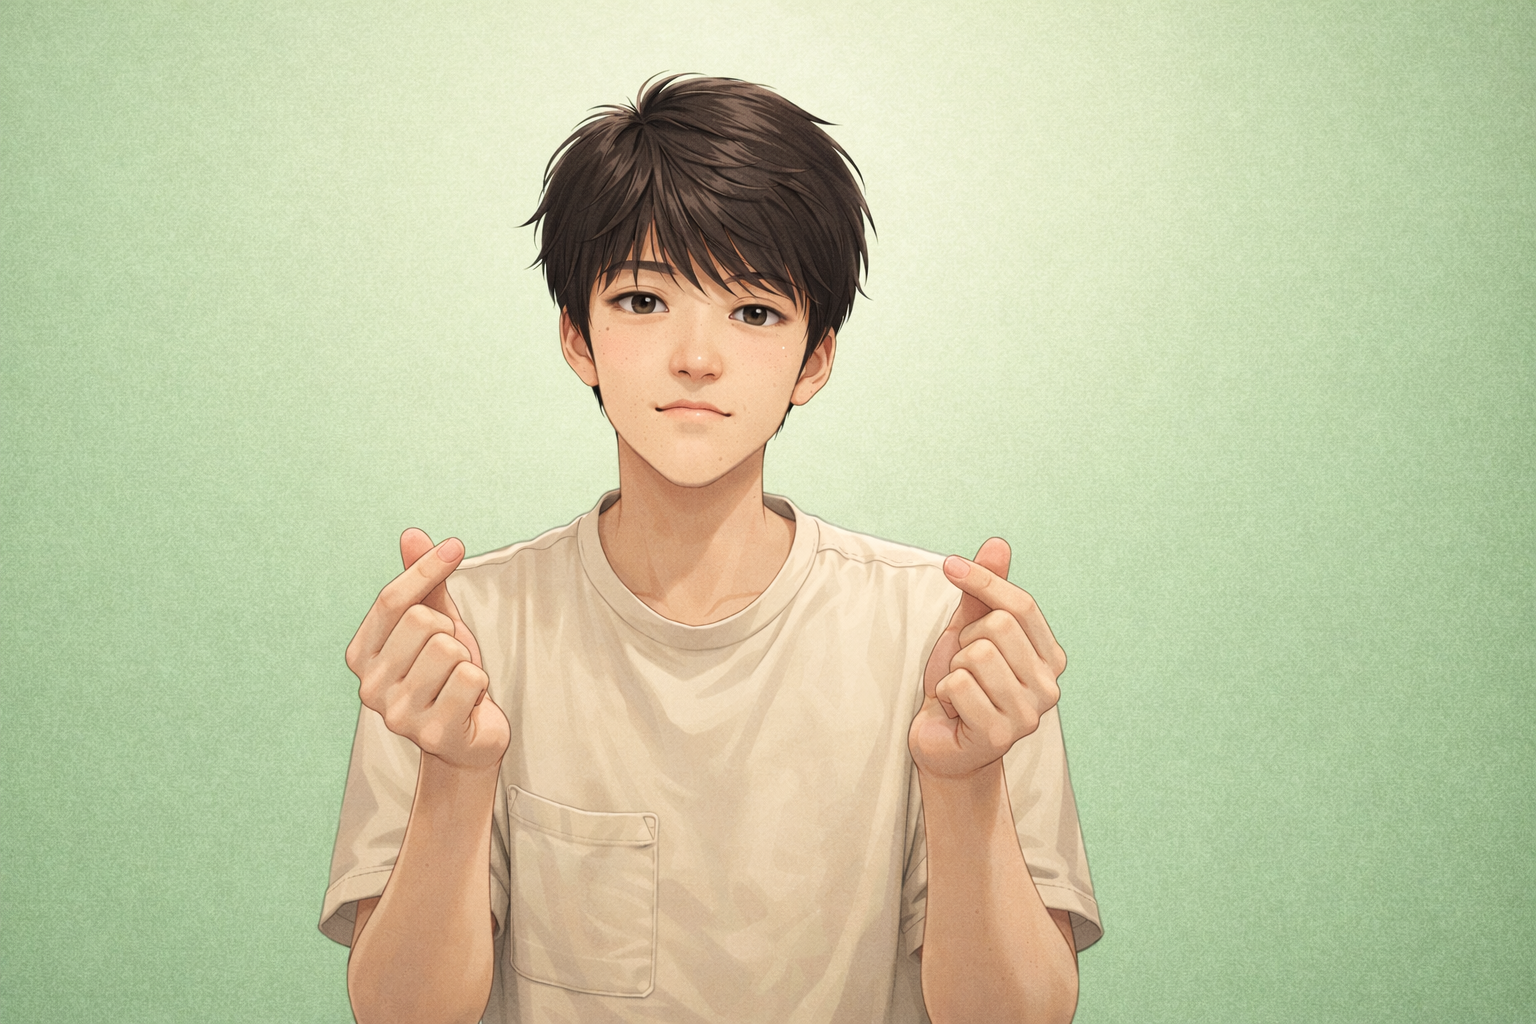
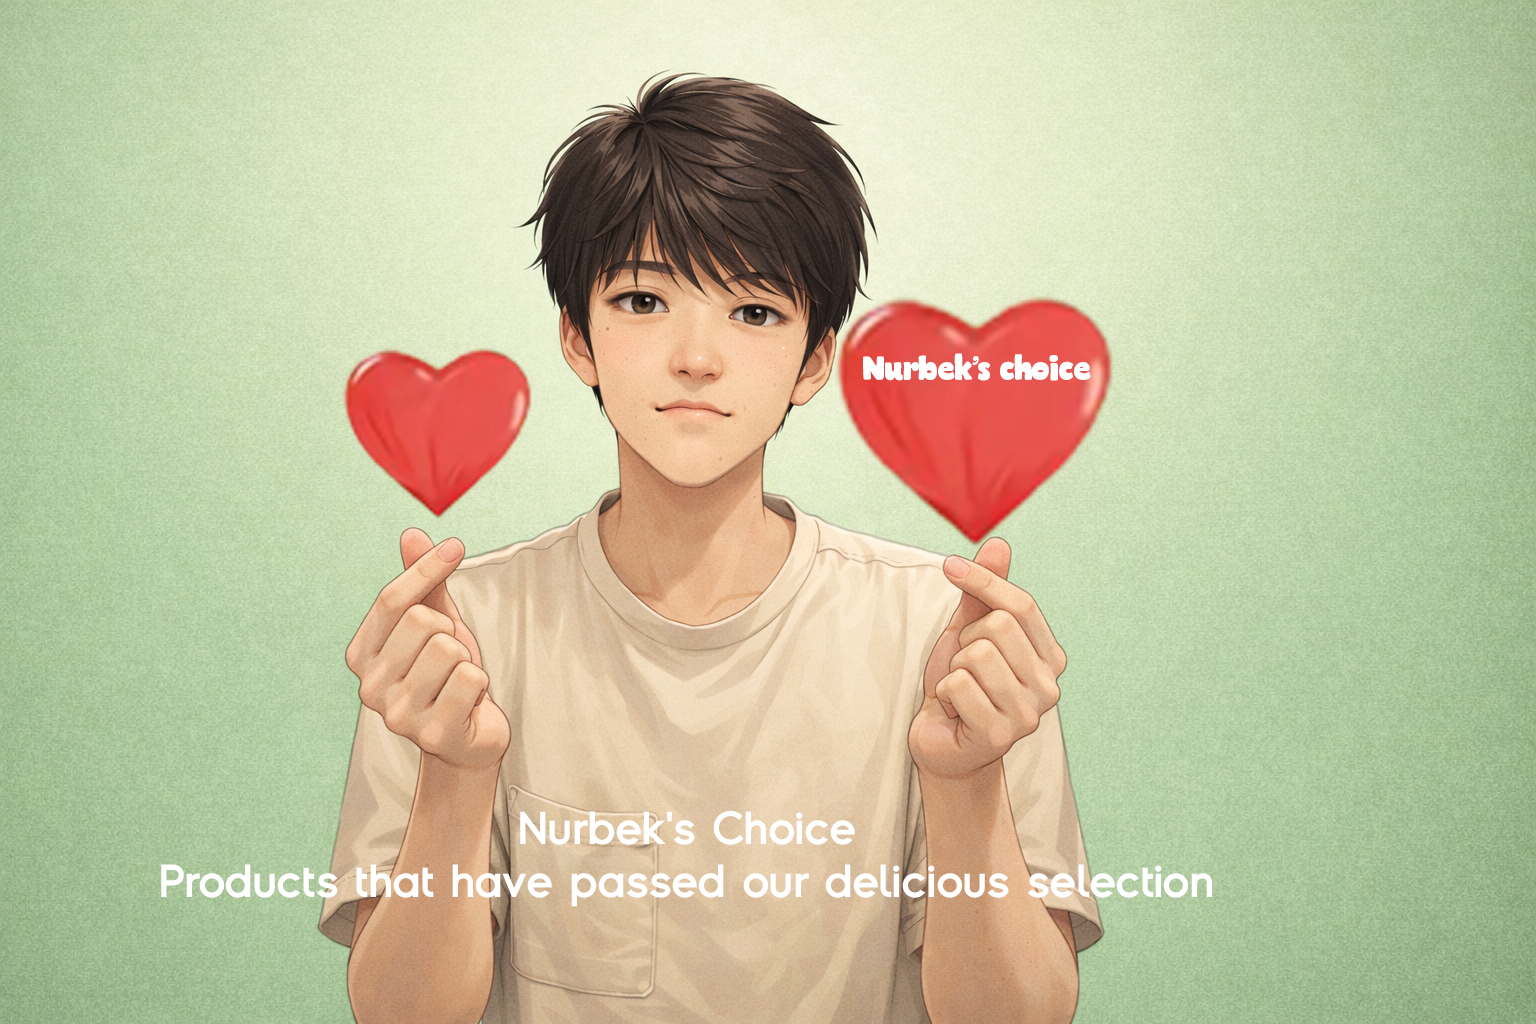
Ау мау

Changed region(s): [[0.5312, 0.2812, 0.75, 0.5312], [0.0938, 0.7812, 0.8125, 0.875], [0.2188, 0.3438, 0.3438, 0.5]]

diff --git a/index.html b/index.html
@@ -54,7 +54,7 @@
                 </div>
             </div>
             <div class="banner-footer">
-                <p class="banner-footer-text">✨ Добавьте праздник в корзину - новогодние скидки ждут!</p>
+                <p class="banner-footer-text">Добавьте праздник в корзину - новогодние скидки ждут!</p>
             </div>
         </section>
 

diff --git a/TEAM_DIVISION.md b/TEAM_DIVISION.md
@@ -1,0 +1,160 @@
+# Разделение проекта на команду из 4 человек
+
+## 👤 Участник 1: Авторизация и профиль пользователя
+
+### Ответственность:
+- Система входа и регистрации
+- Управление профилем пользователя
+- История заказов
+
+### Файлы:
+- `login.html` - страница входа
+- `register.html` - страница регистрации
+- `auth.js` - логика авторизации и регистрации
+- `profile.html` - страница профиля
+- `profile.js` - логика профиля и истории заказов
+
+### Функционал:
+- ✅ Форма входа (email, пароль)
+- ✅ Форма регистрации (имя, email, пароль, телефон)
+- ✅ Валидация данных
+- ✅ Сохранение пользователя в localStorage
+- ✅ Отображение профиля пользователя
+- ✅ История заказов в профиле
+- ✅ Выход из аккаунта
+
+---
+
+## 👤 Участник 2: Корзина и оформление заказа
+
+### Ответственность:
+- Корзина покупок
+- Оформление заказа
+- Страница успешного заказа
+
+### Файлы:
+- `cart.html` - страница корзины
+- `cart.js` - логика корзины (добавление, удаление, изменение количества)
+- `checkout.html` - страница оформления заказа
+- `checkout.js` - логика оформления заказа
+- `order-success.html` - страница успешного заказа
+
+### Функционал:
+- ✅ Добавление товаров в корзину
+- ✅ Отображение товаров в корзине
+- ✅ Изменение количества товаров
+- ✅ Удаление товаров из корзины
+- ✅ Подсчет общей суммы
+- ✅ Форма оформления заказа (адрес доставки, оплата)
+- ✅ Сохранение заказа в localStorage
+- ✅ Страница подтверждения заказа
+
+---
+
+## 👤 Участник 3: Главная страница и каталог товаров
+
+### Ответственность:
+- Главная страница
+- Каталог товаров
+- Категории товаров
+- Поиск товаров
+
+### Файлы:
+- `index.html` - главная страница
+- `script.js` - основная логика (каталог, категории, товары)
+- `search.js` - функционал поиска
+
+### Функционал:
+- ✅ Баннер с переключением изображений
+- ✅ Сетка категорий товаров
+- ✅ Каталог товаров с фильтрацией по категориям
+- ✅ Отображение карточек товаров
+- ✅ Поиск товаров по названию
+- ✅ Навигация между категориями
+- ✅ Категория "Выбор Нурбека"
+- ✅ Популярные товары
+- ✅ Товары со скидкой
+
+---
+
+## 👤 Участник 4: Дизайн и анимации
+
+### Ответственность:
+- Стилизация всего проекта
+- Анимации и интерактивность
+- Адаптивный дизайн
+- jQuery эффекты
+
+### Файлы:
+- `style.css` - все стили проекта
+- `jquery-interactions.js` - jQuery анимации и эффекты
+- Все изображения в папке `img/`
+
+### Функционал:
+- ✅ Общий дизайн сайта
+- ✅ Стили для всех страниц (главная, корзина, профиль, checkout)
+- ✅ Адаптивный дизайн (мобильные, планшеты, десктоп)
+- ✅ CSS анимации (transitions, keyframes)
+- ✅ jQuery анимации (fade, slide, hover эффекты)
+- ✅ Стили карточек товаров и категорий
+- ✅ Стили форм и кнопок
+- ✅ Цветовая схема и типографика
+
+---
+
+## 📋 Общие файлы (используются всеми):
+
+- `img/` - все изображения проекта
+- Header с навигацией (есть на всех страницах)
+- Система алертов (showAlert)
+- LocalStorage для данных
+
+---
+
+## 🔄 Зависимости между участниками:
+
+1. **Участник 1** → использует header и стили от **Участника 4**
+2. **Участник 2** → использует данные корзины от **Участника 3**, стили от **Участника 4**
+3. **Участник 3** → использует стили от **Участника 4**, данные пользователя от **Участника 1**
+4. **Участник 4** → работает со всеми страницами, созданными другими участниками
+
+---
+
+## ✅ Итоговая структура:
+
+```
+almurt-website/
+├── Участник 1 (Авторизация и профиль):
+│   ├── login.html
+│   ├── register.html
+│   ├── auth.js
+│   ├── profile.html
+│   └── profile.js
+│
+├── Участник 2 (Корзина и заказы):
+│   ├── cart.html
+│   ├── cart.js
+│   ├── checkout.html
+│   ├── checkout.js
+│   └── order-success.html
+│
+├── Участник 3 (Главная и каталог):
+│   ├── index.html
+│   ├── script.js
+│   └── search.js
+│
+└── Участник 4 (Дизайн и анимации):
+    ├── style.css
+    ├── jquery-interactions.js
+    └── img/ (все изображения)
+```
+
+---
+
+## 📝 Примечания:
+
+- Все участники должны согласовать структуру header и footer
+- LocalStorage ключи должны быть едиными для всех
+- Функции showAlert и updateCartCount используются всеми
+- jQuery подключен в index.html и используется участником 4
+
